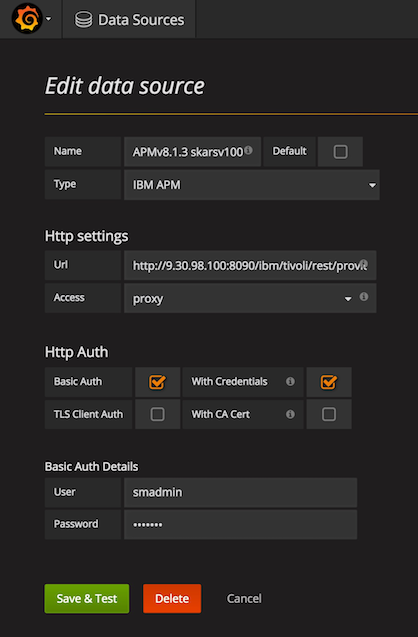
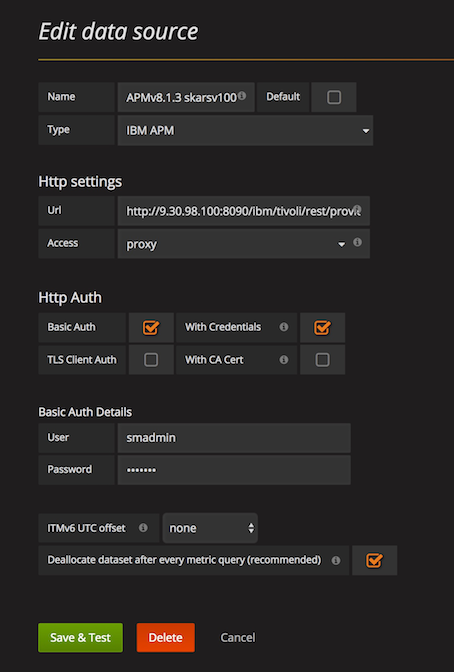
update to v0.6

diff --git a/README.md b/README.md
@@ -4,12 +4,12 @@ Author: Rafal Szypulka
 
 Contact: rafal.szypulka@pl.ibm.com
 
-Revision: 0.5
+Revision: 0.6
 
 **What's new:**
 
-- 0.5
-  -  Added datasource configuration option to deallocate dataset on ITM/APM server after every metric query. It is highly recommended to have it enabled all the time. Lack of datasource deallocation requests may cause memory leak and OutOfMemory exceptions on ITM/APM server. This plugin update requires also change in the Grafana server backend. See updated installation instructions for details.
+- 0.6
+  -  Added datasource configuration option to deallocate dataset on ITM/APM server after every metric query. It is highly recommended to have it enabled all the time. Lack of datasource deallocation requests may cause memory leak and OutOfMemory exceptions on ITM/APM server. This plugin update requires also change in the Grafana server backend. See updated installation instructions and datasource configuration for details.
 - 0.4
   -  Better error handling.
   -  Cosmetic changes in the panel query editor.
@@ -173,6 +173,7 @@ disk IO metric for specific disk collected from two different servers.
     legend in the **Alias field**, so we can easily distinguish which line
     belongs to a particular agent. Add the **Condition** and **Alias** as shown in the example below.
 ![](./media/image12.png)
+
 12.  We are almost done! Add a proper chart title in General tab.
 ![](./media/image13.png)
 13.  Customize the legend in the Legend tab to make it look better and
@@ -224,11 +225,11 @@ Another option is to install plugin using Grafana CLI:
 grafana-cli plugins install ibm-apm-datasource
 ```
 
-3). Plugin requires slight modification of the Grafana server backend to properly deallocate datasets on APM or ITM server after every metric query. For Grafana 4.5 installed on Linux, replace **grafana-server** binary with the one downladed from [here](https://ibm.box.com/s/6sflz4wyru71vh645h311oarygwnztxc), or buid it by yourself.
+2). Plugin requires slight modification of the Grafana server backend to properly deallocate datasets on the APM or ITM server after every metric query. For Grafana 4.5 installed on Linux, replace **grafana-server** binary with the one downladed from [here](https://ibm.box.com/s/6sflz4wyru71vh645h311oarygwnztxc), or build it by yourself.
 
 Here are the steps to build modified grafana-server binary:
 
-- install Go langguage compliler and download Grafana sources using the steps documented [here](http://docs.grafana.org/project/building_from_source/). 
+- install Go language compiler and download Grafana sources using the steps documented [here](http://docs.grafana.org/project/building_from_source/). 
 - change the file `ds_proxy.go` by commenting these two lines:
 
 ```
@@ -238,7 +239,7 @@ req.Header.Del("Set-Cookie")
 
 - compile and build grafana-server binary using the steps documented [here](http://docs.grafana.org/project/building_from_source/) and replace the original grafana-server file with the new one.
 
-4). Restart Grafana. On RedHat/Centos run:
+3). Restart Grafana. On RedHat/Centos run:
 
 `systemctl restart grafana-server`
 
@@ -257,19 +258,22 @@ Specify the REST API URL:
 
 -   APMv8
 
-http://&lt;apm\_server\_hostname&gt;:8090/ibm/tivoli/rest/providers/itm.KD8
+`http://<apm_server_hostname>:8090/ibm/tivoli/rest/providers/itm.KD8`
 
 -   ITMv6/SCAPMv7
 
-http://&lt;TEPS\_server\_hostname&gt;:15200/ibm/tivoli/rest/providers/itm.&lt;TEMS\_NAME&gt;
+`http://<TEPS_server_hostname>:15200/ibm/tivoli/rest/providers/itm.<TEMS_NAME>`
+
+**Note:** If you connect IBM APM datasource to Hub TEMS with HA configuration or `<TEMS_NAME>` contains non-alphanumeric characters, then define Domain Override in TEPS Data Provider. Check [issue #3](https://github.com/rafal-szypulka/grafana-ibm-apm/issues/3) for more details. 
+
+![domain_override.png](./media/domain_override.png)
 
 Select **Basic Auth** and **With credentials** and specify the user name
 
 -   APMv8 – smadmin (default password apmpass)
-
 -   ITMv6/SCAPMv7 sysadmin (password for ITM sysadmin user)
 
-
+Select checkbox "Deallocate dataset after every metric query". It is recommended to have it enabled all the time. Lack of datasource deallocation requests may cause memory leak and OutOfMemory exceptions on APM or ITM server. Disable this option only for testing a new panel query, if you want to use Grafana Query Inspector feature.
 
 The Screen below illustrates the completed configuration for the APMv8 data source:
 
